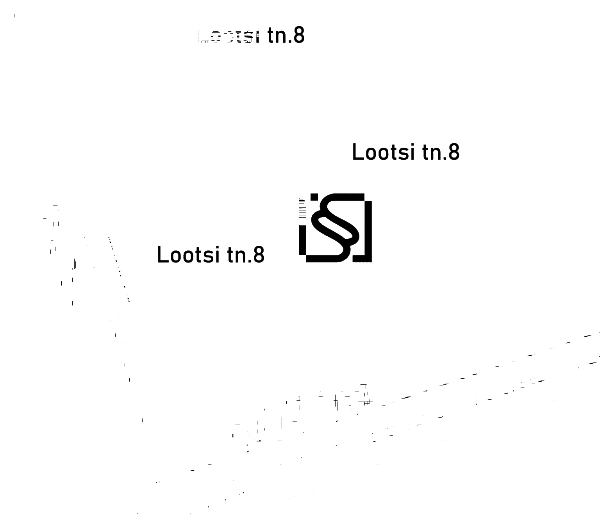
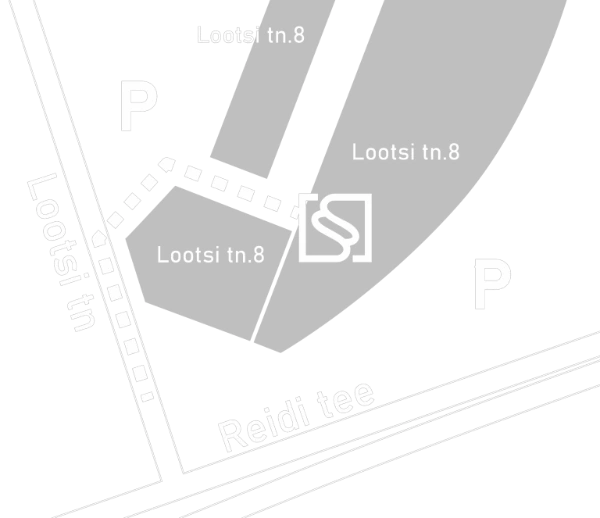
Contact bar: the new office map

diff --git a/index.html b/index.html
@@ -6,10 +6,10 @@
 <title>Legalia Advokaadibüroo</title>
 <meta name="theme-color" content="#f9f9f9">
 <link rel="icon" href="assets/logo.svg" type="image/svg+xml">
-<link rel="stylesheet" href="css/style.css?v=v2-61">
-<script src="js/i18n.js?v=v2-61" defer></script>
-<script src="js/main.js?v=v2-61" defer></script>
-<script src="js/intro.js?v=v2-61" defer></script>
+<link rel="stylesheet" href="css/style.css?v=v2-62">
+<script src="js/i18n.js?v=v2-62" defer></script>
+<script src="js/main.js?v=v2-62" defer></script>
+<script src="js/intro.js?v=v2-62" defer></script>
 </head>
 <body>
 <!-- All texts live in js/i18n.js. Elements here only carry their key (data-i18n for text, data-i18n-label for aria-label). -->
@@ -83,7 +83,7 @@
       <a href="mailto:legalia@legalia.ee">legalia@legalia.ee</a>
     </div>
     <div class="place">
-      <!-- The office map (assets/img/legalia-web-map2, recoloured: white on the burgundy, the labels and logo black). -->
+      <!-- The office map (from the user's assets/icons/map.png, resized to 600px). -->
       <a class="map" href="https://www.google.com/maps/search/?api=1&amp;query=Advokaadib%C3%BCroo+Legalia+O%C3%9C" target="_blank" rel="noopener" tabindex="-1" aria-hidden="true"><img src="assets/img/map.webp" alt="" width="600" height="518" loading="lazy"></a>
       <div class="where">
       <p class="addr" data-i18n="contact.address"></p>
